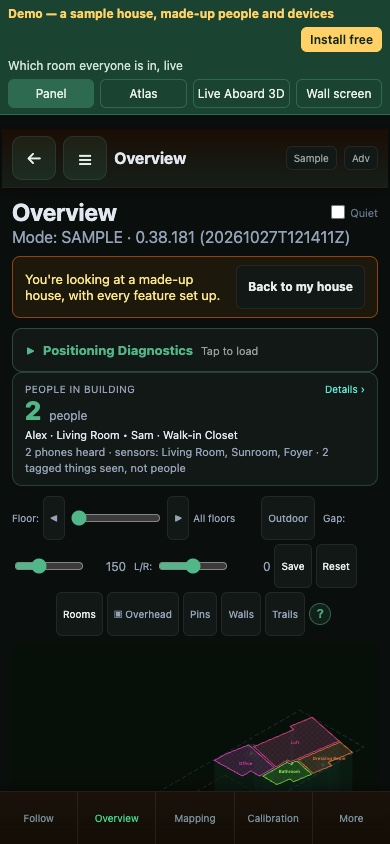
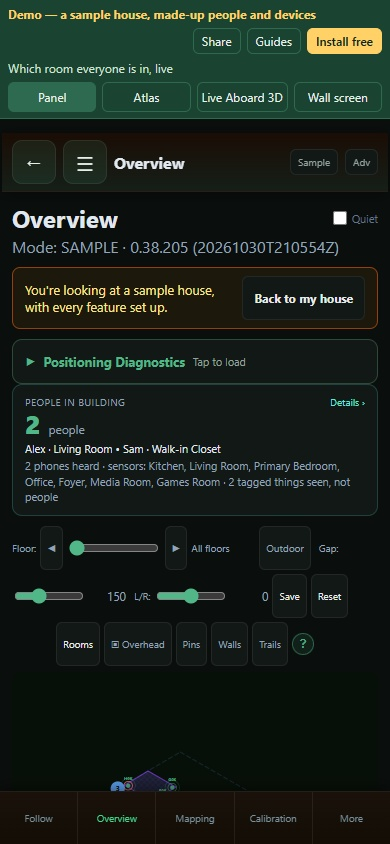
Demo pictures: the sample house as the demo shows it now
Re-taken from the demo build: the twelve estate-*.jpg in tools/demo/media
(1080p, 4K, phone) and the 1200x630 link preview, same names, sizes and
framing. tools/demo/shoot.py takes them all in one command (Playwright's
Chrome on the graphics card, the demo served on 127.0.0.1:8909).

diff --git a/tools/demo/shoot.py b/tools/demo/shoot.py
@@ -1,0 +1,162 @@
+"""Take the demo's pictures: tools/demo/media/estate-*.jpg and preview.jpg.
+
+    python -X utf8 tools/demo/shoot.py [--port 8909] [--only NAME ...] [--out DIR]
+
+Builds the demo into a temporary folder, serves it on 127.0.0.1:<port>
+(stopped at the end) and opens each picture's page in Playwright's Chrome on
+the machine's graphics card (real WebGL, not the software fallback). Writes
+the pictures into tools/demo/media and tools/demo (or --out), same names and
+sizes as the guides and the creators page link. Prints one line per picture
+with any page errors; exit 0 only with none.
+
+Each picture: its page and query (?page=, ?kiosk=1, ?night=1, ?look=),
+the window (CSS px, device scale 1), whether the demo bar shows (only on the
+phone pictures), and what is done before the shot: "full" the map alone (the
+⛶ button), "all" every floor, "explode" the floors pulled apart, "zoom" the
+camera nearer (radius times, the target moved toward the guest's tag).
+"""
+
+from __future__ import annotations
+
+import argparse
+import functools
+import http.server
+import io
+import sys
+import tempfile
+import threading
+from pathlib import Path
+
+HERE = Path(__file__).resolve().parent
+sys.path.insert(0, str(HERE))
+from build import build  # noqa: E402
+
+MEDIA = HERE / "media"
+HD, UHD, PHONE = (1920, 1080), (3840, 2160), (390, 844)
+# name: (file, query, window, bar shown, steps, JPEG quality)
+SHOTS = {
+    "3d-main-floor": ("media/estate-3d-main-floor.jpg", "page=atlas3d&quality=high", HD, False, {}, 94),
+    "3d-main-floor-night": ("media/estate-3d-main-floor-night.jpg", "page=atlas3d&quality=high&night=1", HD, False, {}, 94),
+    "3d-guest-tag": ("media/estate-3d-guest-tag.jpg", "page=atlas3d&quality=high", HD, False,
+                     {"full": True, "zoom": {"radius": 0.5, "toward": "guest", "pull": 0.6}}, 94),
+    "3d-three-floors": ("media/estate-3d-three-floors.jpg", "page=atlas3d&quality=high&look=studio", HD, False,
+                        {"full": True, "all": True, "explode": True}, 94),
+    "3d-three-floors-4k": ("media/estate-3d-three-floors-4k.jpg", "page=atlas3d&quality=high&look=studio", UHD, False,
+                           {"full": True, "all": True, "explode": True}, 92),
+    "wall-3d": ("media/estate-wall-3d.jpg", "page=atlas3d&kiosk=1&quality=high", HD, False, {}, 94),
+    "wall-3d-4k": ("media/estate-wall-3d-4k.jpg", "page=atlas3d&kiosk=1&quality=high", UHD, False, {}, 92),
+    "wall-atlas": ("media/estate-wall-atlas.jpg", "page=atlas&kiosk=1", HD, False, {}, 94),
+    "wall-atlas-4k": ("media/estate-wall-atlas-4k.jpg", "page=atlas&kiosk=1", UHD, False, {}, 92),
+    "phone-panel": ("media/estate-phone-panel.jpg", "page=panel&narrow=1", PHONE, True, {}, 95),
+    "phone-atlas": ("media/estate-phone-atlas.jpg", "page=atlas&narrow=1", PHONE, True, {}, 95),
+    "phone-3d": ("media/estate-phone-3d.jpg", "page=atlas3d&narrow=1&quality=high", PHONE, True, {}, 95),
+    # The link preview (1200x630): the main floor up close, the map alone.
+    "preview": ("preview.jpg", "page=atlas3d&quality=high", (1200, 630), False, {"full": True, "zoom": {"radius": 0.62}}, 90),
+}
+HIDE_BAR = ("document.addEventListener('DOMContentLoaded', () => { const s = document.createElement('style');"
+            " s.textContent = '#demo-bar { display: none !important; }'; document.head.appendChild(s); });")
+# "full": the ⛶ button with full screen not allowed, so it shows the map alone in the page
+# (live_aboard.js toggleFull: no bars, only the ☰ that brings them back).
+NO_FULL = ("for (const k of ['fullscreenEnabled', 'webkitFullscreenEnabled'])"
+           " Object.defineProperty(Document.prototype, k, { get: () => false, configurable: true });")
+# Live Aboard's own window on what it draws (as check_render.py): the module the page loaded.
+SLOT = ("async () => { const u = performance.getEntriesByType('resource').map(e => e.name).find(n => n.includes('/views/live_aboard.js?'));"
+        " const s = u && (await import(u)).liveAboardSlot('atlas'); return s ? s._state() : null; }")
+LOOK = ("async ([theta, phi, target, radius]) => { const u = performance.getEntriesByType('resource').map(e => e.name).find(n => n.includes('/views/live_aboard.js?'));"
+        " (await import(u)).liveAboardSlot('atlas')._look(theta, phi, target, radius); }")
+
+
+class Quiet(http.server.SimpleHTTPRequestHandler):
+    def log_message(self, *a):
+        pass
+
+
+def click(page, selector: str) -> None:
+    for b in page.locator(selector).all():
+        if b.is_visible():
+            b.click()
+            page.wait_for_timeout(1500)
+            return
+    raise RuntimeError(f"no visible {selector}")
+
+
+def shoot(page, base: str, name: str, spec: tuple, out: Path, settle_ms: int) -> list[str]:
+    from PIL import Image  # noqa: PLC0415
+
+    file, query, (w, h), bar, steps, quality = spec
+    errors: list[str] = []
+    page.on("pageerror", lambda e: errors.append(str(e)))
+    page.on("console", lambda m: errors.append(m.text) if m.type == "error" else None)
+    if not bar:
+        page.add_init_script(HIDE_BAR)
+    if steps.get("full"):
+        page.add_init_script(NO_FULL)
+    page.goto(f"{base}?{query}")
+    page.wait_for_selector("html[data-demo-ready]", timeout=30000)
+    page.wait_for_timeout(settle_ms)
+    if steps.get("all"):
+        click(page, '[data-la3d-floor] button[title="Every floor"]')
+    if steps.get("explode"):
+        click(page, '[data-la3d-floor] button[title^="Explode"]')
+    if steps.get("full"):
+        click(page, "[data-la3d-full] button")
+    zoom = steps.get("zoom")
+    if zoom:
+        st = page.evaluate(SLOT)
+        cam = st["cam"]
+        target = list(cam["target"])
+        if zoom.get("toward"):
+            thing = next((t for t in st.get("tracked") or [] if str(t.get("name") or "").endswith(" · Guest")), None)
+            at = thing and thing.get("at")
+            if at:
+                k = zoom.get("pull", 0.5)
+                target = [target[i] + (at[i] - target[i]) * k for i in range(3)]
+        page.evaluate(LOOK, [cam["theta"], cam["phi"], target, cam["radius"] * zoom["radius"]])
+    page.wait_for_timeout(2500)
+    png = page.screenshot(type="png")
+    dest = out / file
+    dest.parent.mkdir(parents=True, exist_ok=True)
+    Image.open(io.BytesIO(png)).convert("RGB").save(dest, "JPEG", quality=quality, optimize=True)
+    return [e for e in errors if "favicon" not in e]
+
+
+def main() -> int:
+    from playwright.sync_api import sync_playwright  # noqa: PLC0415
+
+    ap = argparse.ArgumentParser(description=__doc__.splitlines()[0])
+    ap.add_argument("--port", type=int, default=8909)
+    ap.add_argument("--only", nargs="*", choices=sorted(SHOTS))
+    ap.add_argument("--out", type=Path, default=HERE)
+    ap.add_argument("--settle", type=int, default=8000, help="ms to let the house load and people walk before the shot")
+    a = ap.parse_args()
+    bad = 0
+    with tempfile.TemporaryDirectory() as tmp:
+        dist = build(Path(tmp) / "dist")
+        server = http.server.ThreadingHTTPServer(("127.0.0.1", a.port), functools.partial(Quiet, directory=str(dist)))
+        threading.Thread(target=server.serve_forever, daemon=True).start()
+        base = f"http://127.0.0.1:{a.port}/index.html"
+        try:
+            with sync_playwright() as p:
+                browser = p.chromium.launch(channel="chrome", headless=True,
+                                            args=["--enable-gpu", "--use-angle=d3d11", "--ignore-gpu-blocklist"])
+                for name in a.only or SHOTS:
+                    spec = SHOTS[name]
+                    ctx = browser.new_context(viewport={"width": spec[2][0], "height": spec[2][1]}, device_scale_factor=1,
+                                              locale="en-US", reduced_motion="reduce")
+                    page = ctx.new_page()
+                    try:
+                        errs = shoot(page, base, name, spec, a.out, a.settle)
+                    except Exception as e:  # noqa: BLE001
+                        errs = [f"{type(e).__name__}: {e}"]
+                    ctx.close()
+                    bad += bool(errs)
+                    print(f"{'ok  ' if not errs else 'FAIL'}  {name}" + (f"  ({'; '.join(errs)[:400]})" if errs else ""), flush=True)
+                browser.close()
+        finally:
+            server.shutdown()
+            server.server_close()
+    return 1 if bad else 0
+
+
+if __name__ == "__main__":
+    sys.exit(main())
